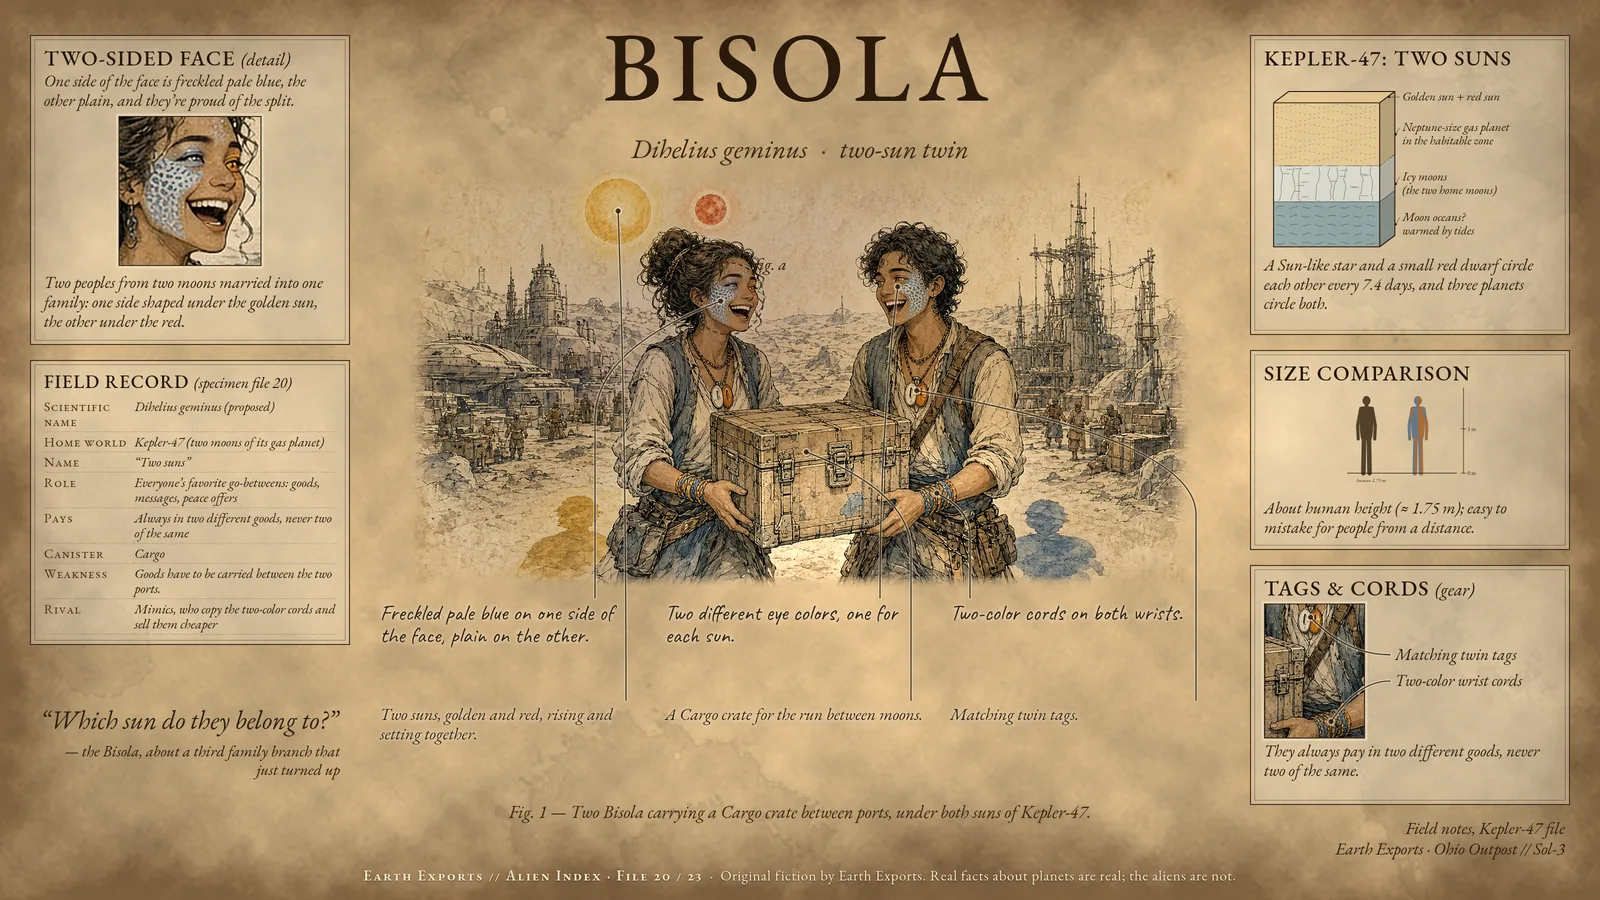
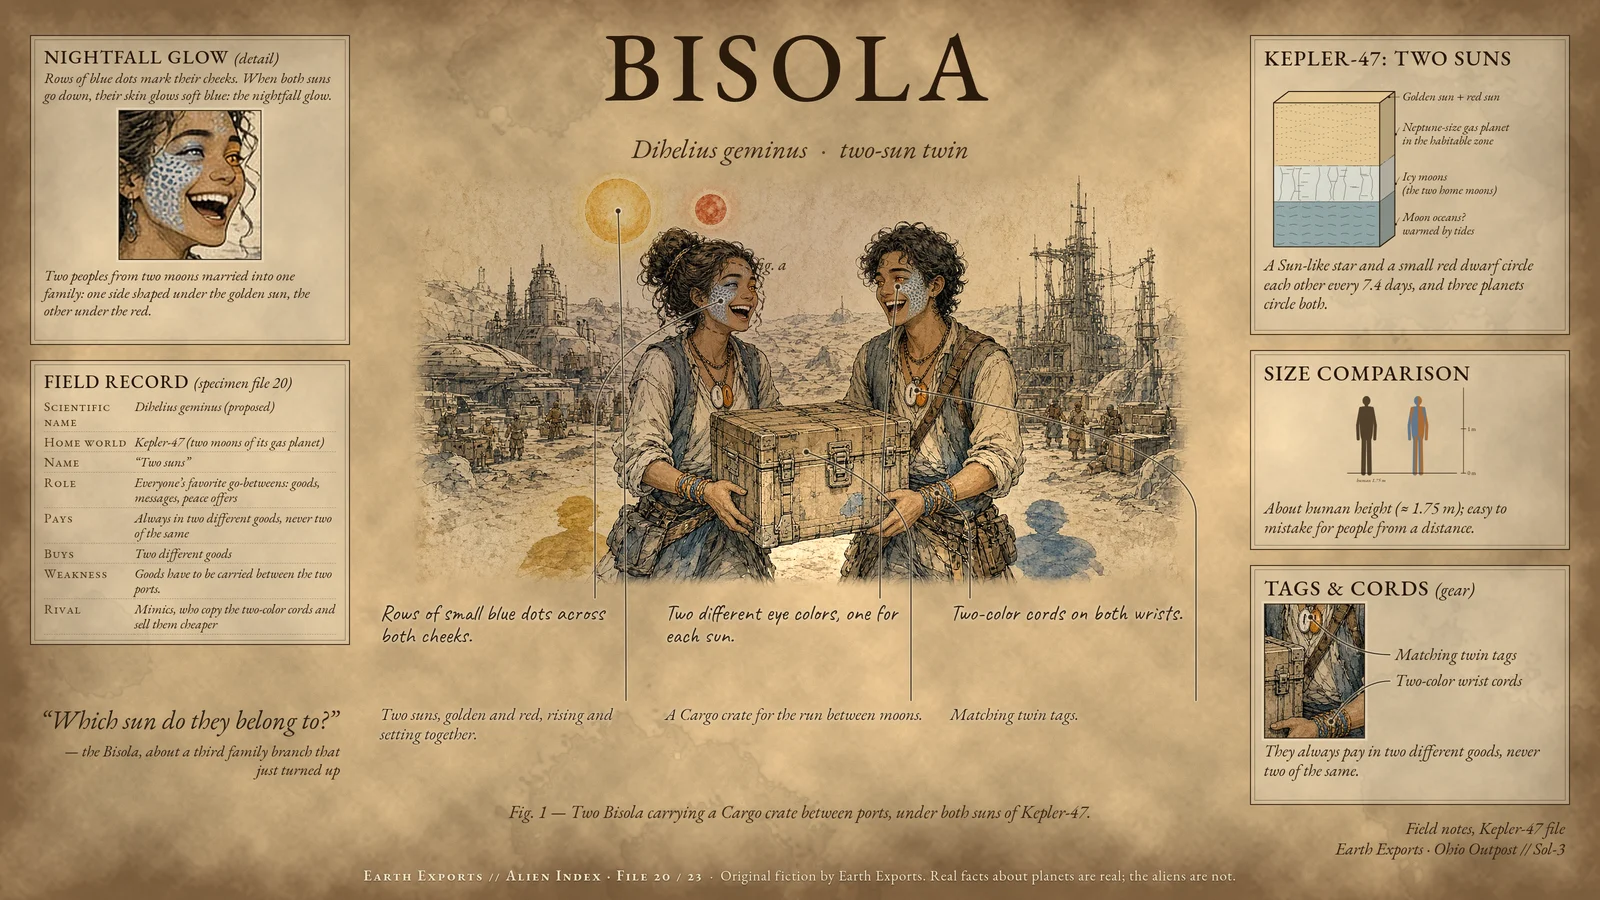
Preview: Bisola nightfall glow lore (species.json, Alien Index text, field guide + poster text layers)

diff --git a/archives.html b/archives.html
@@ -450,7 +450,7 @@
           <p class="ix-nick">The name means “two suns.”</p>
             <p class="ix-home"><span>Home world</span> Kepler-47, a planet system with two suns</p>
             <p class="ix-science"><em>Dihelius geminus</em> (proposed)</p>
-            <p>Kepler-47 was the first system found with more than one planet circling two suns, so the sky there shows a golden sun and a small red one. Bisola look almost human, freckled pale blue on one side of the face, and every bill they pay is two different goods.</p>
+            <p>Kepler-47 was the first system found with more than one planet circling two suns, so the sky there shows a golden sun and a small red one. Bisola look almost human, with rows of blue dots on the cheeks and bone pendants set with orange stones. When both suns go down, their skin glows soft blue: the nightfall glow. Every bill they pay is two different goods.</p>
             <a class="btn btn-secondary" href="star-map.html#split-kin">Open on the star map</a>
           </div>
         </article>
